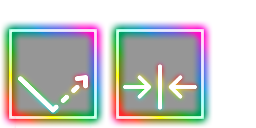
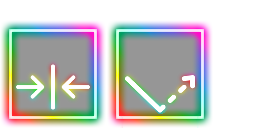
[Update]직접/반사타격 블록 변경 이미지 적용

Changed region(s): [[0.4688, 0.5, 0.7812, 0.9062], [0.0625, 0.5, 0.375, 0.9062]]

diff --git a/NeonSpace/Assets/Scripts/Contents/Brick.cs b/NeonSpace/Assets/Scripts/Contents/Brick.cs
@@ -224,10 +224,12 @@ public class Brick : MonoBehaviour
             case 8://반사
                 brickStateCnt = 4;
                 sprites_[4].gameObject.SetActive(true);
+                label_.gameObject.transform.localPosition = labelPos[4];
                 break;
             case 9://직접
                 brickStateCnt = 5;
                 sprites_[5].gameObject.SetActive(true);
+                label_.gameObject.transform.localPosition = labelPos[4];
                 break;
         }
         BrickColor();
